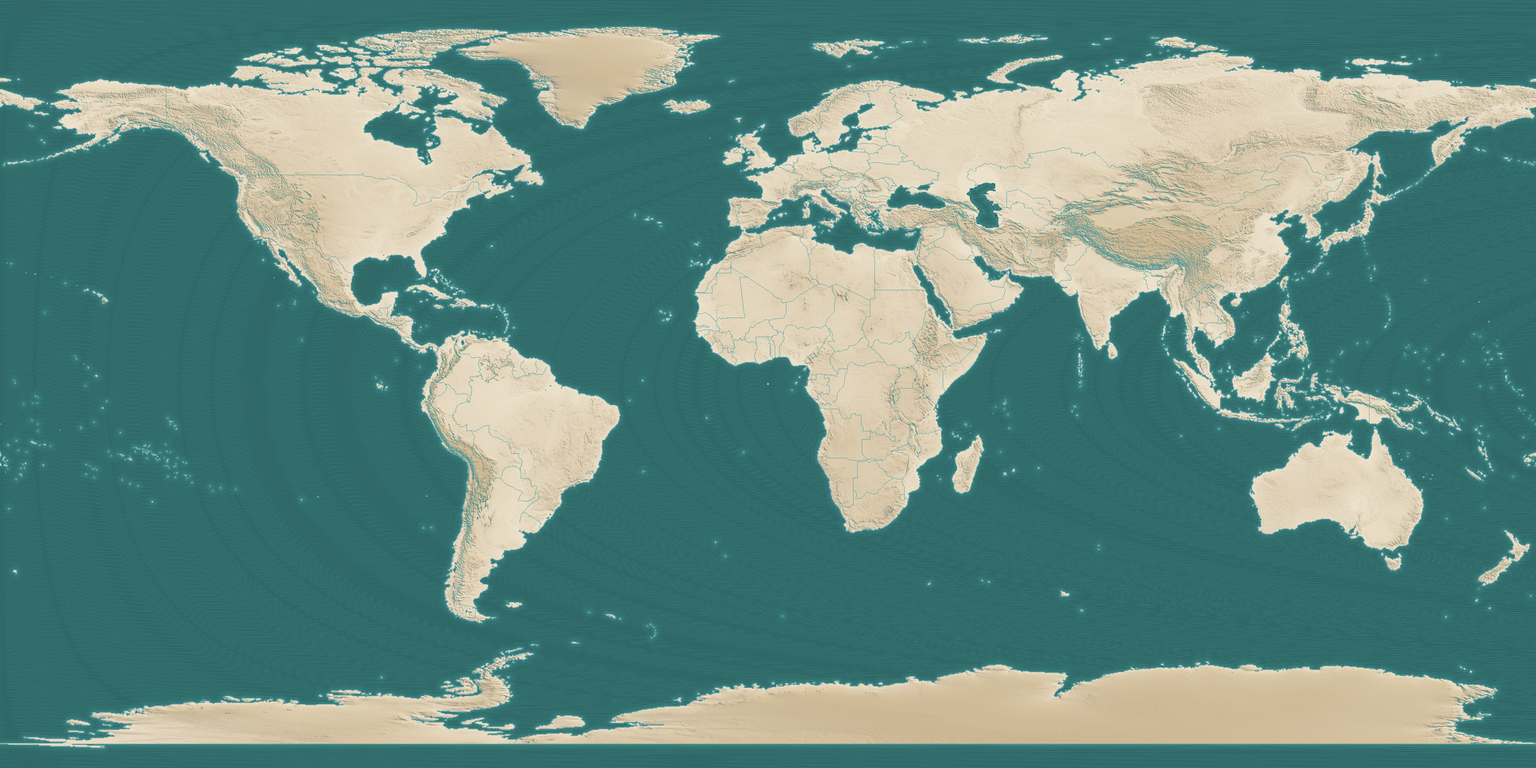
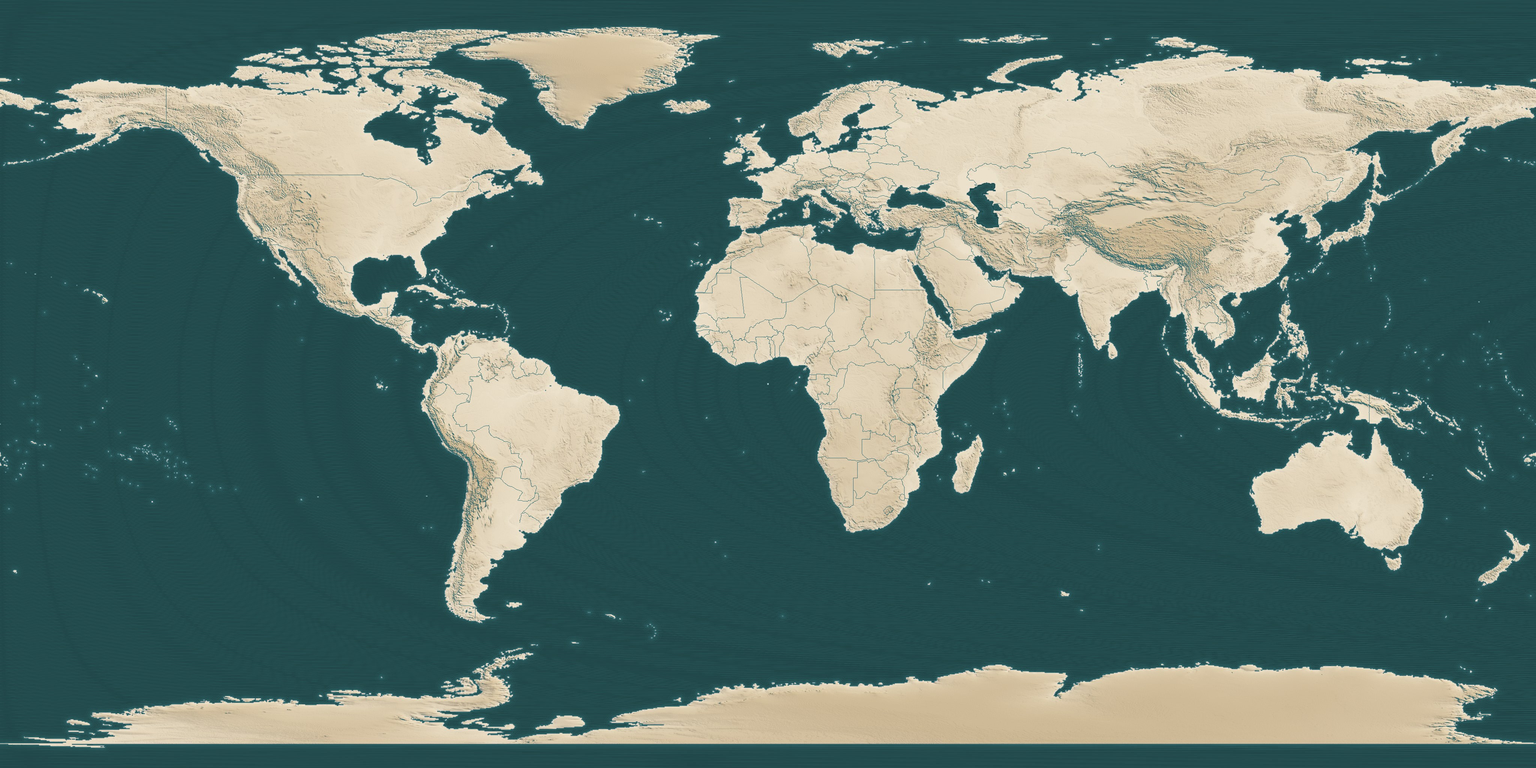
Passport globe sea: North Sea teal, deeper (#234B4D)
Claude-Session: https://claude.ai/code/session_01G9fDWLn1cnr3Dqr3EN3T2G

diff --git a/theme/style.css b/theme/style.css
@@ -4,7 +4,7 @@ Theme URI:    https://worldonrotation.com/
 Author:       Rhythm Passport
 Author URI:   https://rhythmpassport.com/
 Description:  The World on Rotation globe and its passport-style pages: places, countries, mixes and playlists, selectors. Needs the World on Rotation plugin for its content.
-Version:      1.3.33
+Version:      1.3.34
 Requires at least: 6.4
 Requires PHP: 7.4
 License:      GPL-2.0-or-later

diff --git a/world-on-rotation.php b/world-on-rotation.php
@@ -2,7 +2,7 @@
 /**
  * Plugin Name:       World on Rotation
  * Description:       The content behind the World on Rotation globe: mixes and playlists, selectors, places and countries, with their music guides. Includes the Selector role and a one-click import of the launch content.
- * Version:           1.6.40
+ * Version:           1.6.41
  * Requires at least: 6.4
  * Requires PHP:      7.4
  * Author:            Rhythm Passport
@@ -15,7 +15,7 @@ if ( ! defined( 'ABSPATH' ) ) {
 	exit;
 }
 
-define( 'WOR_VERSION', '1.6.40' );
+define( 'WOR_VERSION', '1.6.41' );
 define( 'WOR_DIR', plugin_dir_path( __FILE__ ) );
 define( 'WOR_URL', plugin_dir_url( __FILE__ ) );
 
